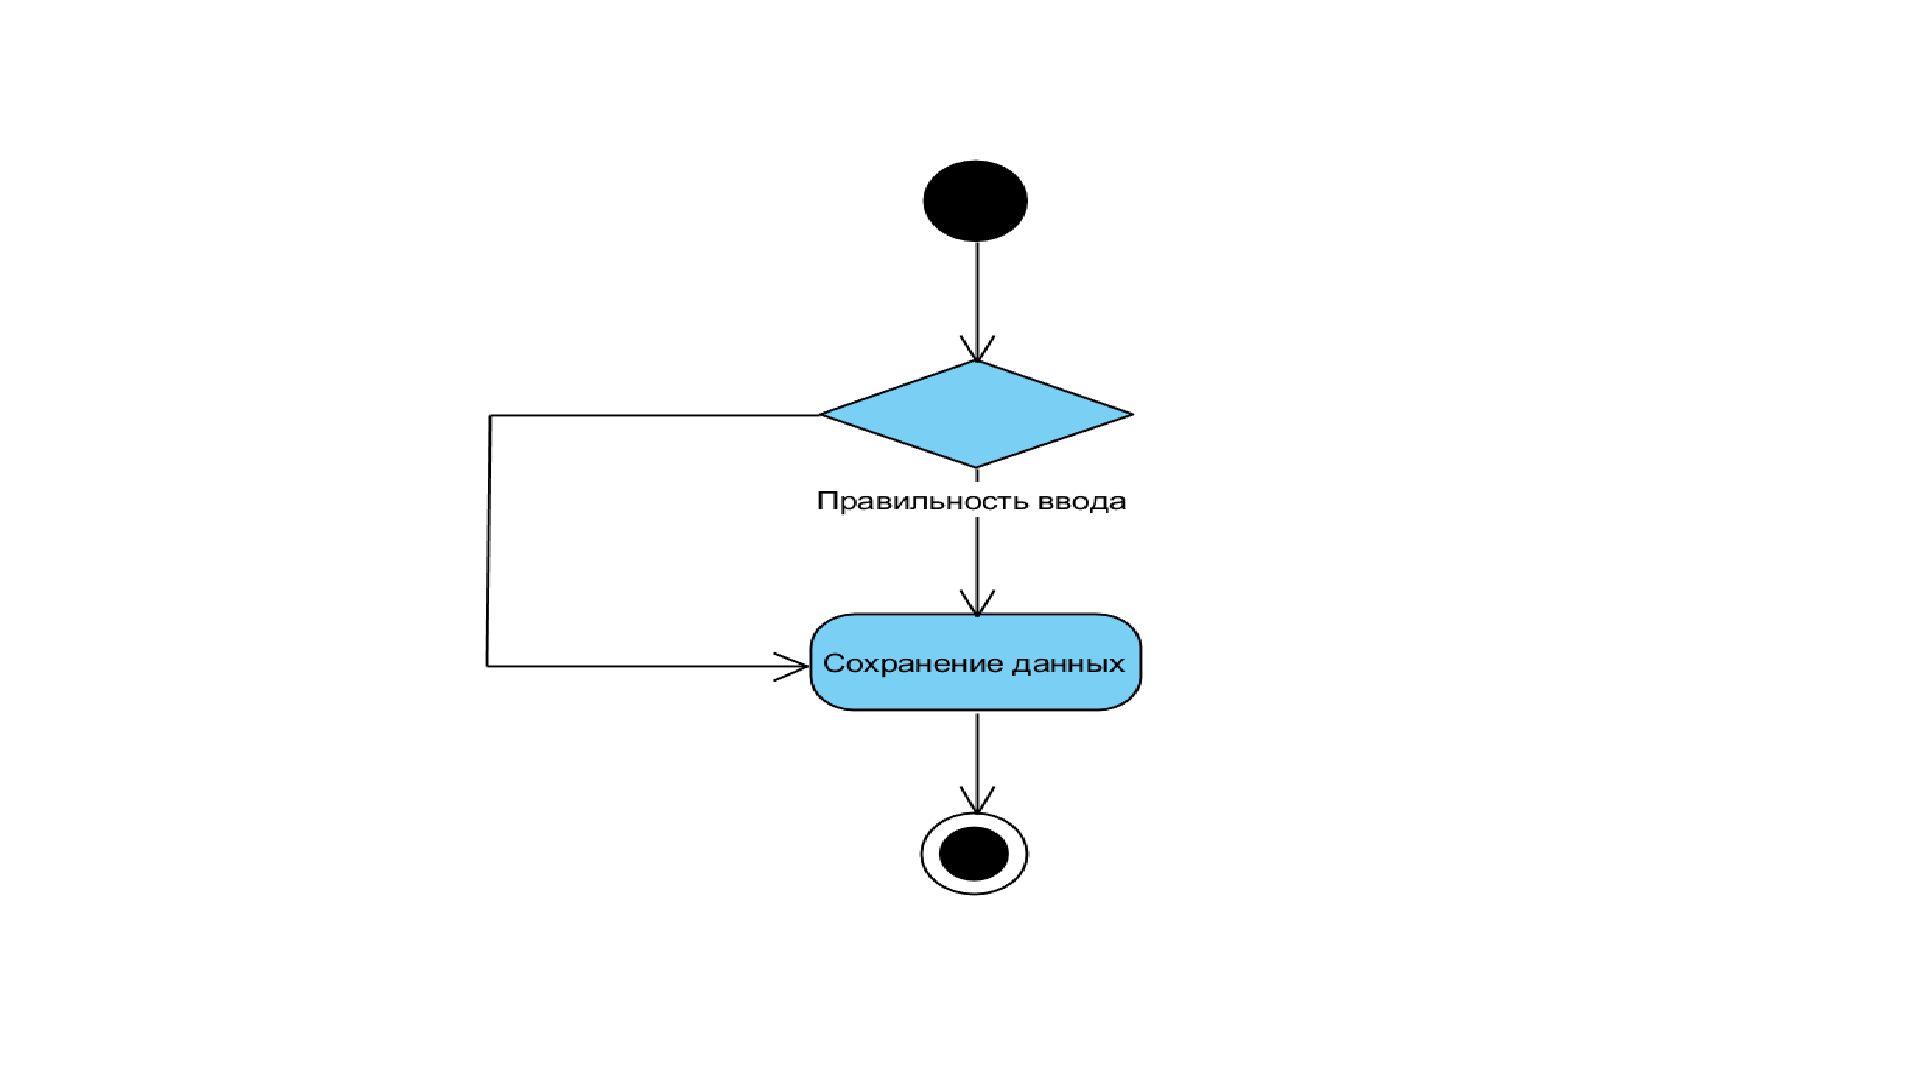
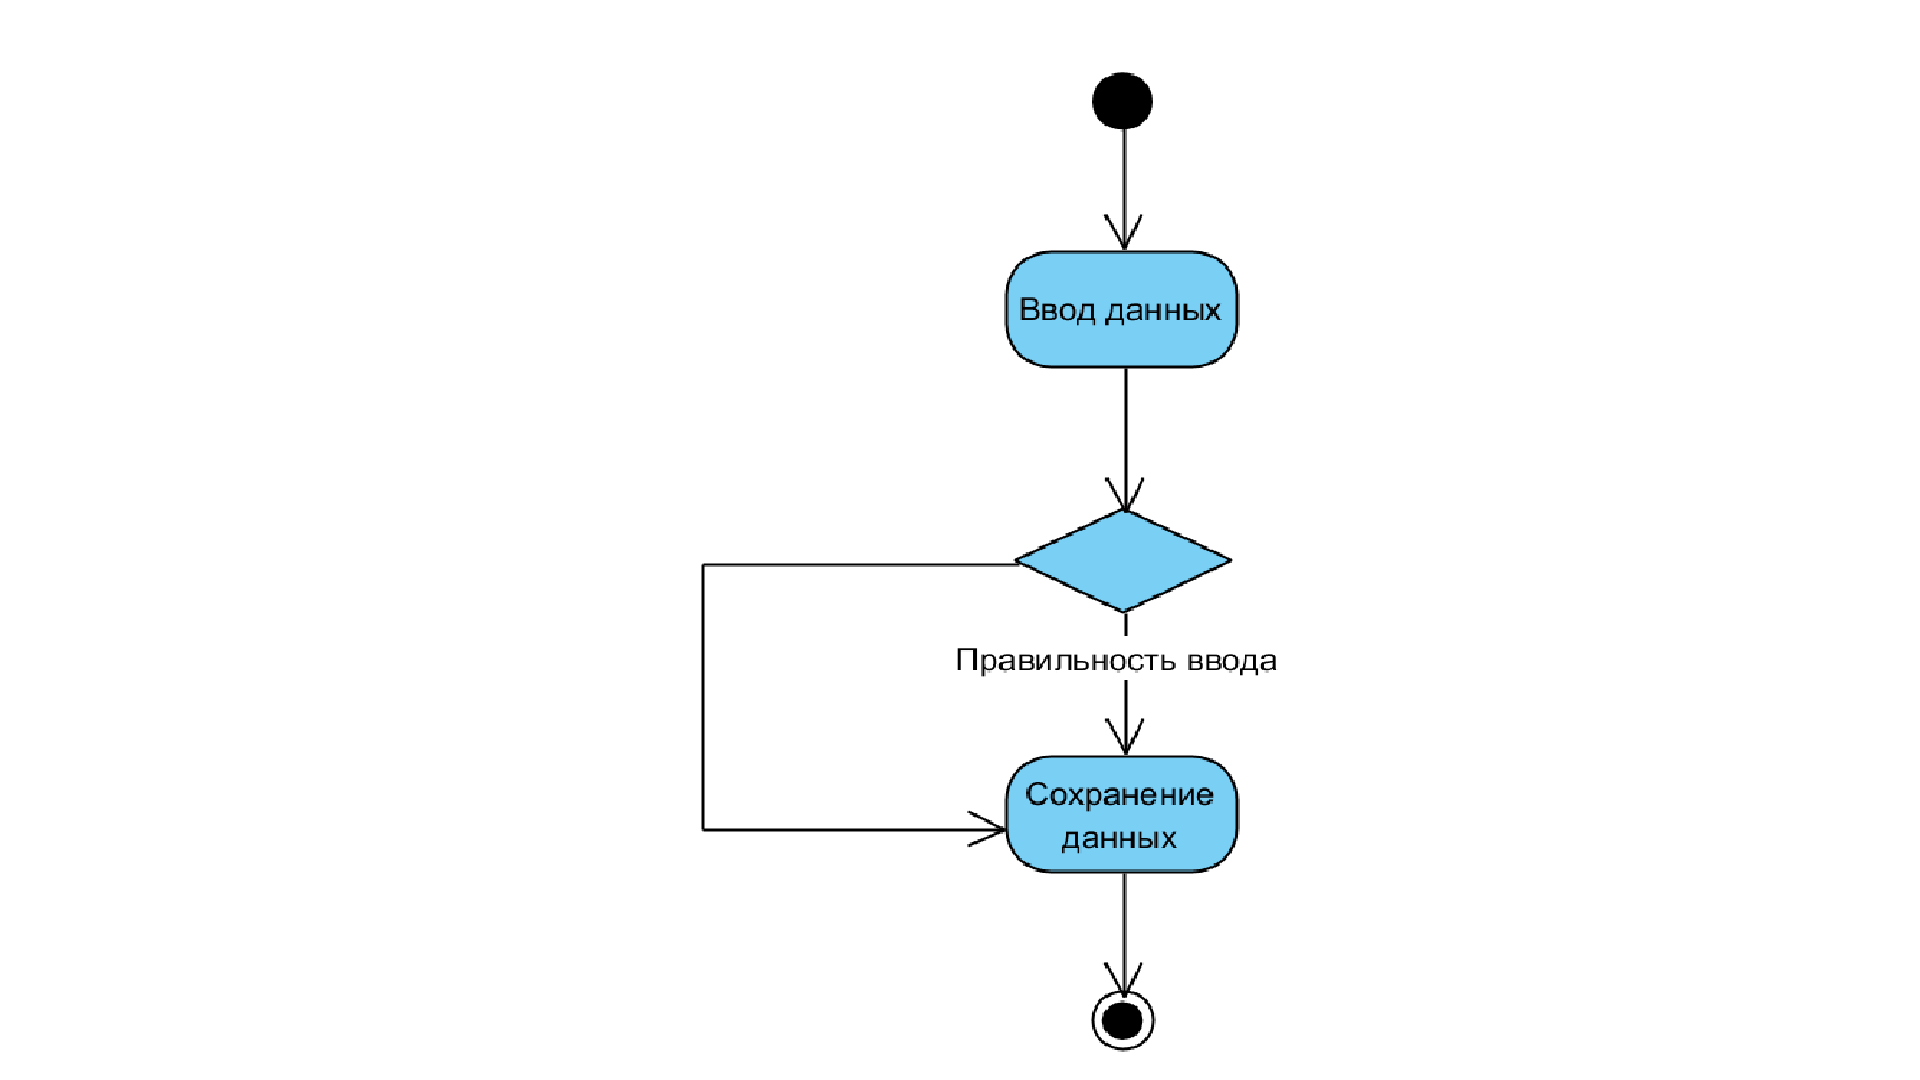
Edit teacher (18.10.2018)

diff --git a/README.md b/README.md
@@ -2,7 +2,7 @@
 ##### The current version of Schedule - 0.01
 Schedule это десктопное приложение для разработки графика учебного процеса или планировки дел.
 ### Requirments: ([Ru](https://github.com/Kiryl7/-Schedule/blob/master/docs/Project%20Documentation/SRS/SRS.md))
-### Stream of events: ([Ru](https://github.com/Kiryl7/-Schedule/tree/master/docs/Project%20Documentation/UseCase))
-### Activity Charts: ([Ru](https://github.com/Kiryl7/-Schedule/tree/master/docs/Project%20Documentation/Activity))
+### Flow of events: ([Ru](https://github.com/Kiryl7/-Schedule/tree/master/docs/Project%20Documentation/UseCase))
+### Activity charts: ([Ru](https://github.com/Kiryl7/-Schedule/tree/master/docs/Project%20Documentation/Activity))
 ### Sequence diagrams: ([Ru](https://github.com/Kiryl7/-Schedule/tree/master/docs/Project%20Documentation/Sequence))
 

diff --git a/docs/Project Documentation/Activity/README.md b/docs/Project Documentation/Activity/README.md
@@ -15,7 +15,7 @@
 
 ![3](../Activity/OutputS.png)
 
-### Вывод расписания 
+### Редактирование расписания 
 ---
 
 ![4](../Activity/EditingS.png)
